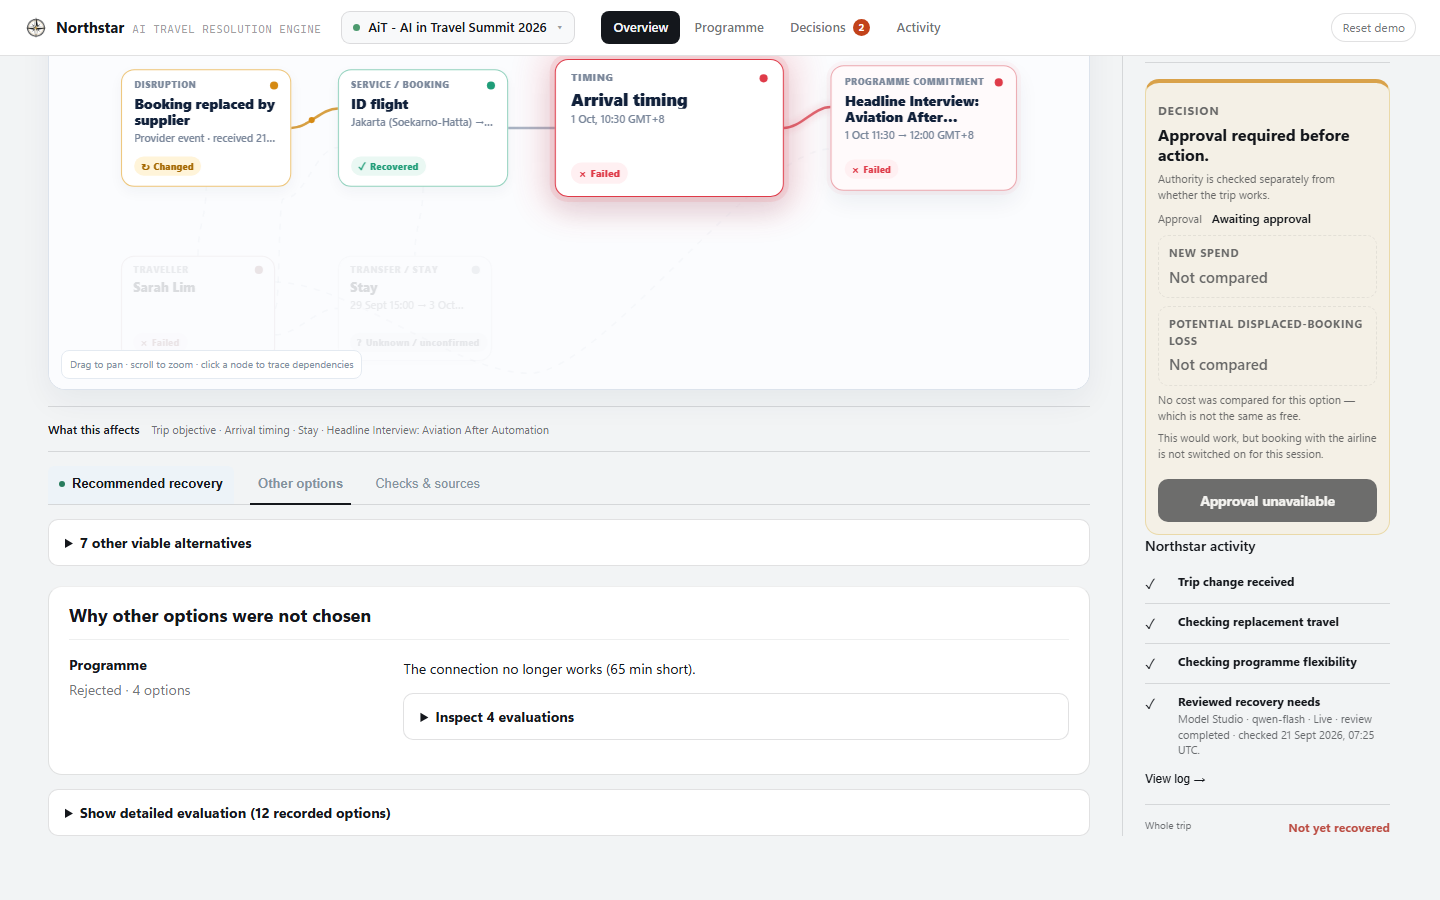
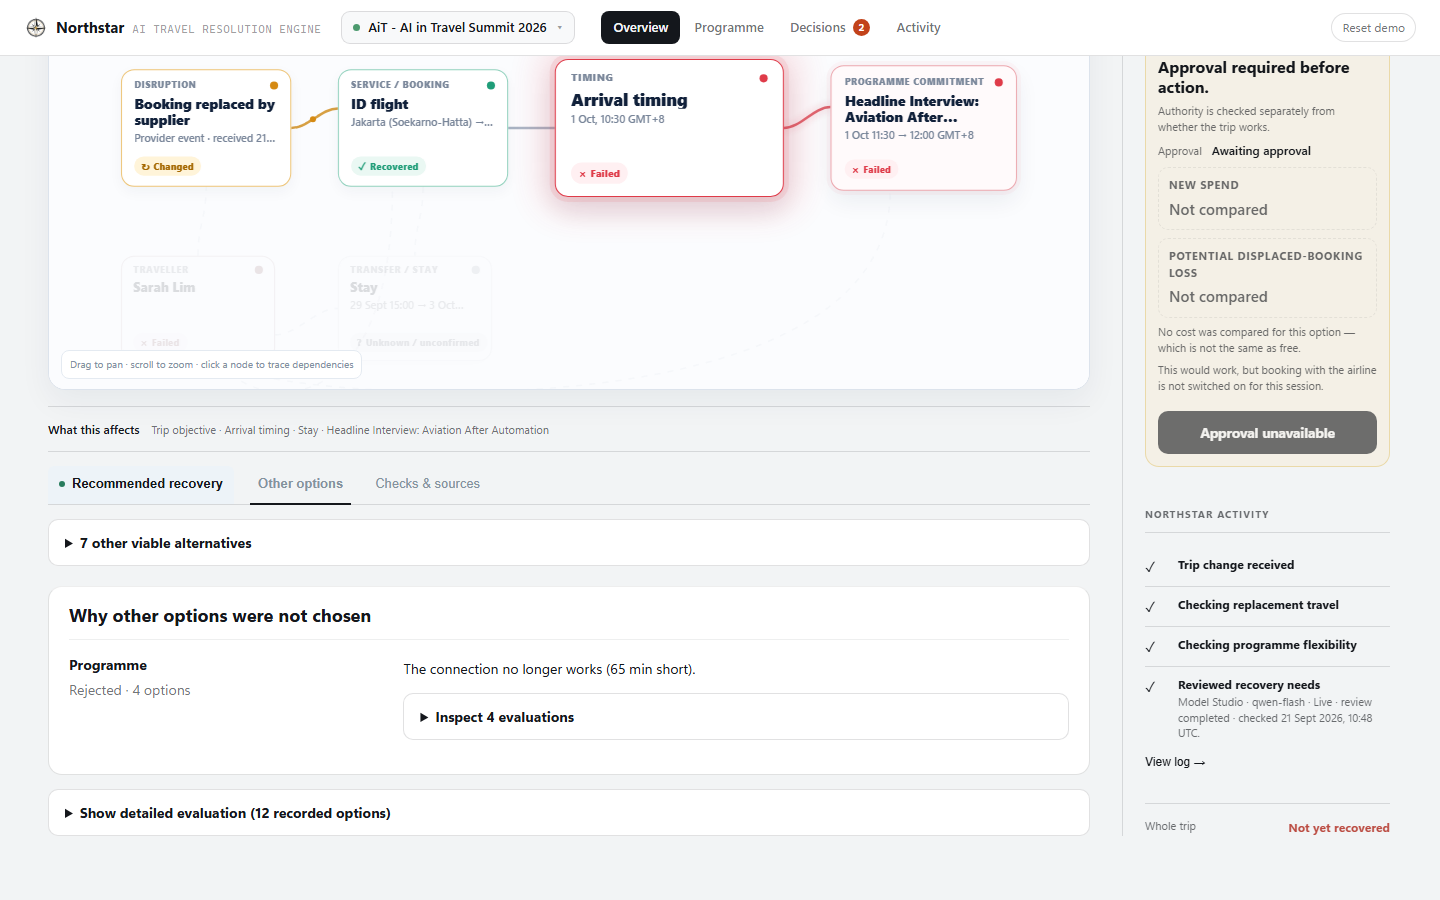
docs(ui): refresh acceptance evidence and raise the green-onward-flight issue
Recaptured against the rebuilt demo database on the final code. Records the
database loss and exactly how the state was reconstructed, and raises as ACT
NOW that the onward ZG flight renders HEALTHY while both MUST_HAPPEN_BEFORE
edges into it are FAILED — projection state, deliberately not recoloured.

Changed region(s): [[0.7812, 0.28, 0.9688, 0.8711], [0.7812, 0.0622, 0.9688, 0.2489]]

diff --git a/docs/work/operator-workspace-v5-opus-visual-acceptance/README.md b/docs/work/operator-workspace-v5-opus-visual-acceptance/README.md
@@ -14,13 +14,13 @@ to use `renderEventOverviewGraph()` and `renderFocusedCaseGraph()`.
 |---|---|
 | Branch | `ui/operator-workspace-v5` |
 | Base before this pass | `6a6abd2` |
-| Runtime | normal product boot (`node src/main.ts`), `HTTP_PORT=8790` |
+| Runtime | normal product boot (`node src/main.ts`), `HTTP_PORT=8791` |
 | Adapter mode | `REPLAY` (no fresh destructive bookings) |
 | Database | PostgreSQL 16 on `localhost:55432`, `astra_a5_founder_qc_20260921` |
 | Demo workspace | `b62c6b6b-4af1-4ea4-8314-588f119317d9` |
-| Dataset | reused existing state — **no `demo/reset` was issued** |
-| Sarah case | `d4ff8d2d-10ec-57cd-822b-e38cceb2c238` (AWAITING_AUTHORITY) |
-| Jordan case | `8344fcd3-5d11-584d-9e3a-7bb07127b285` (AWAITING_AUTHORITY) |
+| Dataset | **rebuilt**: the shared database was destroyed mid-session by a `down -v` teardown from another session. Recreated the database, ran migrations, provisioned the AiT dataset, then reapplied both disruptions through the normal demo boundary (`POST /api/v2/demo/provider-event/airline-rebooking` for Sarah; `a5-founder-qc-progression --stage zg053_impossible` for Jordan). Population counts match the pre-loss state exactly: 50 confirmed / 2 needs attention / 15 unconfirmed of 67. |
+| Sarah case | `b6136ad1-3af0-5862-ab66-57bc57332f80` (AWAITING_AUTHORITY) |
+| Jordan case | `13f584ce-c084-5710-8d15-7dc33f0b7842` (AWAITING_AUTHORITY) |
 | Viewport | 1440 × 900, deviceScaleFactor 1 |
 
 ## Screenshots
@@ -33,6 +33,7 @@ to use `renderEventOverviewGraph()` and `renderFocusedCaseGraph()`.
 | 4 | `04-sarah-case-recommendation-1440.png` | Same composition on the programme case. Approval status is legible; new spend and displaced-booking loss stay separate and read "Not compared"; unknown stays unknown; whole trip reads "Not yet recovered" — recovery is not visually implied. |
 | 5 | `05-sarah-case-full-page-1440.png` | Full scroll: Recommended recovery visually outranks Other options and Checks & sources; itinerary and commitment blocks are hairline-separated rather than nested panels; the rail stays useful while scrolling. |
 | 7 | `07-jordan-graph-edge-routing-detail.png` | 2x zoom on the Jordan case graph: the transitive inbound->onward edge bows clear of the Arrival timing card and enters the onward flight on its own anchor, instead of passing behind the card and converging on a single anchor (which read as a phantom doubled connection). Node detail text clips on a whole line with an ellipsis. |
+| 8 | `08-overview-heading-band-detail.png` | The heading band: title block and readiness meter occupy equal halves, each running to its own page edge; the meter's label, bar and legend align to that half's edges; counts sit in equal columns rather than at bar proportions they do not measure. |
 | 6 | `06-sarah-case-other-options-1440.png` | Rejected options that present identically collapse into one row with a count ("Rejected · 4 options") and one grouped evaluation disclosure — presentation-only grouping, nothing dropped. Negative time is stated as a shortfall ("65 min short"). |
 
 ## Checks run at this state
@@ -48,6 +49,30 @@ to use `renderEventOverviewGraph()` and `renderFocusedCaseGraph()`.
   were not revived to satisfy them.
 
 ## Semantic issues visible in this evidence and deliberately NOT disguised
+
+**ACT NOW — the onward flight is green while both of its dependencies have failed.**
+On the Jordan case graph the onward ZG flight (Narita → Singapore) renders with a
+green `Healthy` badge, while *both* edges into it are `FAILED`. Straight from the
+read model:
+
+```
+SERVICE_BOOKING     HEALTHY   "ZG flight"  (onward, Narita -> Singapore)
+MUST_HAPPEN_BEFORE  FAILED    inbound ZG flight  -> onward ZG flight
+MUST_HAPPEN_BEFORE  FAILED    Arrival timing     -> onward ZG flight
+```
+
+The projection is asserting that the onward booking is itself unaffected — the
+aircraft departs, the seat exists — while everything that would get the traveller
+onto it has failed. Read literally that is defensible; read as an operator it is
+misleading, and the green node fill visually dominates the two red edges pointing
+at it. Reviewer reaction was that the second flight should be red because the
+first one changed.
+
+This is **LDG projection state, not presentation**. It was not recoloured in the
+UI: doing so would fake semantic state. The question for the projection owner is
+whether a booking whose inbound dependencies have all failed should stay
+`HEALTHY` or become `AFFECTED`/`FAILED`. Visible in
+`07-jordan-graph-edge-routing-detail.png`.
 
 **ACT NOW — planner/comparator selection (unchanged from the prior evidence package).**
 Sarah's selected recommendation is domain **TRANSPORT** ("Book replacement travel")
@@ -86,6 +111,16 @@ empty space above its content, so the nodes sit low in the viewport and the fade
 context row meets the "drag to pan" hint at the bottom edge. Reducing the container
 height clips content below ~470px, so the slack is in the scene rect, not the
 container. Not addressed in this pass.
+
+**FIXED — Case graph bypass routing (final form).** A bypassing edge now leaves and
+re-enters on the SAME face of both cards — both bottoms, or both tops — and flows
+between them in the clear space outside the card row, instead of squeezing an arc
+through the same band as the card in its way. Two earlier attempts were rejected on
+sight: a smooth bow that sagged under the focal card and read as a glitch, and an
+orthogonal lane that read as a schematic rather than this graph's language.
+Verified by sampling every rendered path at 120 points against every card body:
+**zero visible edges enter a card** on either case; the only three that do are
+dimmed context edges at 0.11 opacity, unchanged from before.
 
 **FIXED — Case graph edge routing and node text.** Edges passing behind a card:
 6 -> 0 (Jordan), 2 -> 0 (Sarah), both panels. Node text now clips on a whole line
